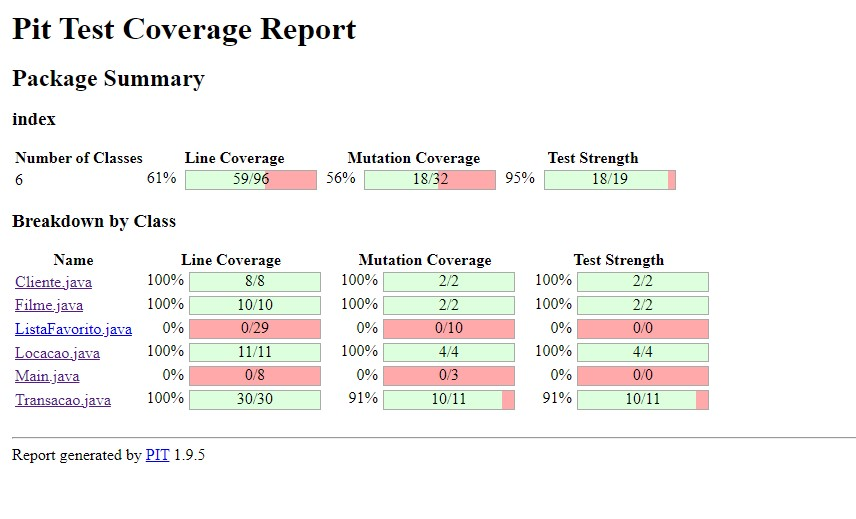
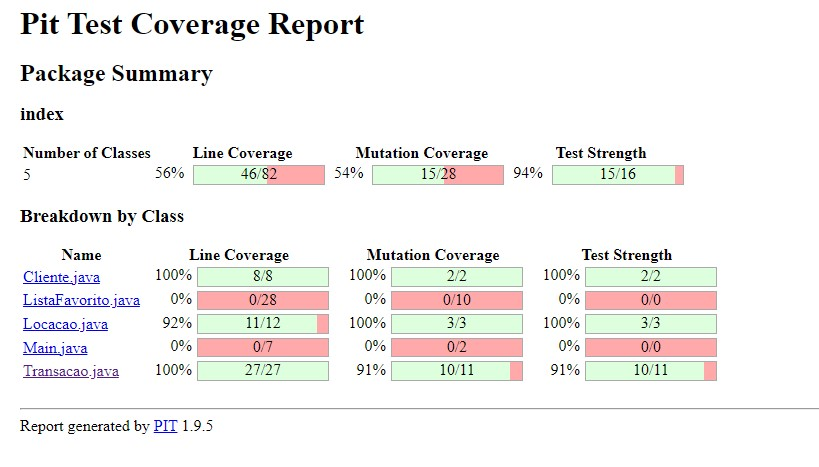
chore: modificação dos atributos do cliente

diff --git a/Locadora/LocadoraMVN/src/main/java/index/Filme.java b/Locadora/LocadoraMVN/src/main/java/index/Filme.java
@@ -3,28 +3,10 @@ package index;
 public class Filme {
 	protected String nome;
 	protected int id;
-	private double valorCompra;
-	private double valorLocacao;
 	protected GeneroENUM generoENUM;
 
 	public Filme(String nome, GeneroENUM generoENUM) {
 		this.nome = nome;
 		this.generoENUM = generoENUM;
-	}
-
-	public void setValorCompra(double valorCompra) {
-		this.valorCompra = valorCompra;
-	}
-
-	public double getValorCompra() {
-		return this.valorCompra;
-	}
-
-	public void setValorLocacao(double valorLocacao) {
-		this.valorLocacao = valorLocacao;
-	}
-
-	public double getValorLocacao() {
-		return this.valorLocacao;
 	}
 }

diff --git a/Locadora/LocadoraMVN/src/test/java/index/LocacaoTest.java b/Locadora/LocadoraMVN/src/test/java/index/LocacaoTest.java
@@ -16,18 +16,16 @@ public class LocacaoTest {
 		f = new Filme("Vingadores", GeneroENUM.Ação);
 		c= new Cliente("Marcos", 10);
 		locacao = new Locacao();
-		locacao.alugar(c, f, 20);
 	}
 	
 	
 	@Test
 	public void alugarComSucessoTest() {
-
-	}
-	
-	@Test
-	public void setDescontoPorGeneroTest() {
-
+		locacao.alugar(c, f, 20);
+		c.setIsAtivo(true);
+		assertEquals(c, locacao.cliente);
+		assertEquals(f, locacao.filme);
+		assertEquals(20, locacao.valorPagoNoAluguel, 0.1);
 	}
 	
 }

diff --git a/Locadora/LocadoraMVN/src/test/java/index/FIlmeTest.java b/Locadora/LocadoraMVN/src/test/java/index/FIlmeTest.java
@@ -18,16 +18,4 @@ public class FIlmeTest {
 		assertEquals("Vingadores", f.nome);
 		assertEquals(GeneroENUM.Ação,f.generoENUM);
 	}
-	
-	@Test
-	public void setValorCompraTest() {
-		f.setValorCompra(50);
-		assertEquals(50,f.getValorCompra(), 0.1);
-	}
-	
-	@Test
-	public void setValorLocacaoTest() {
-		f.setValorLocacao(20);
-		assertEquals(20, f.getValorLocacao(), 0.1);
-	}
 }

diff --git a/Locadora/LocadoraMVN/src/main/java/index/Locacao.java b/Locadora/LocadoraMVN/src/main/java/index/Locacao.java
@@ -13,7 +13,7 @@ public class Locacao implements Pagamento {
 	}
 
 	public void alugar(Cliente c, Filme f, double valorDoPagamento) {
-		if ((valorDoPagamento == f.getValorLocacao()) && (c.isAtivo() == true)) {
+		if (c.isAtivo() == true) {
 			this.cliente = c;
 			this.filme = f;
 			pagar(valorDoPagamento);

diff --git a/Locadora/LocadoraMVN/src/main/java/index/Main.java b/Locadora/LocadoraMVN/src/main/java/index/Main.java
@@ -3,7 +3,6 @@ package index;
 public class Main {
 	public static void main(String[] args) {
 		Filme f = new Filme("Java muito feliz", GeneroENUM.Aventura);
-		f.setValorLocacao(10);
 		Cliente c = new Cliente("Marcos", 1);
 		Locacao locacao = new Locacao();
 		locacao.alugar(c, f, 9);

diff --git a/Locadora/LocadoraMVN/src/test/java/index/TransacaoTest.java b/Locadora/LocadoraMVN/src/test/java/index/TransacaoTest.java
@@ -16,7 +16,6 @@ public class TransacaoTest {
 	@Before
 	public void setUp() throws Exception {
 		f = new Filme("Vingadores", GeneroENUM.Ação);
-		f.setValorLocacao(20);
 		c= new Cliente("Marcos", 10);
 		locacao = new Locacao();
 		locacao.alugar(c, f, 20);
